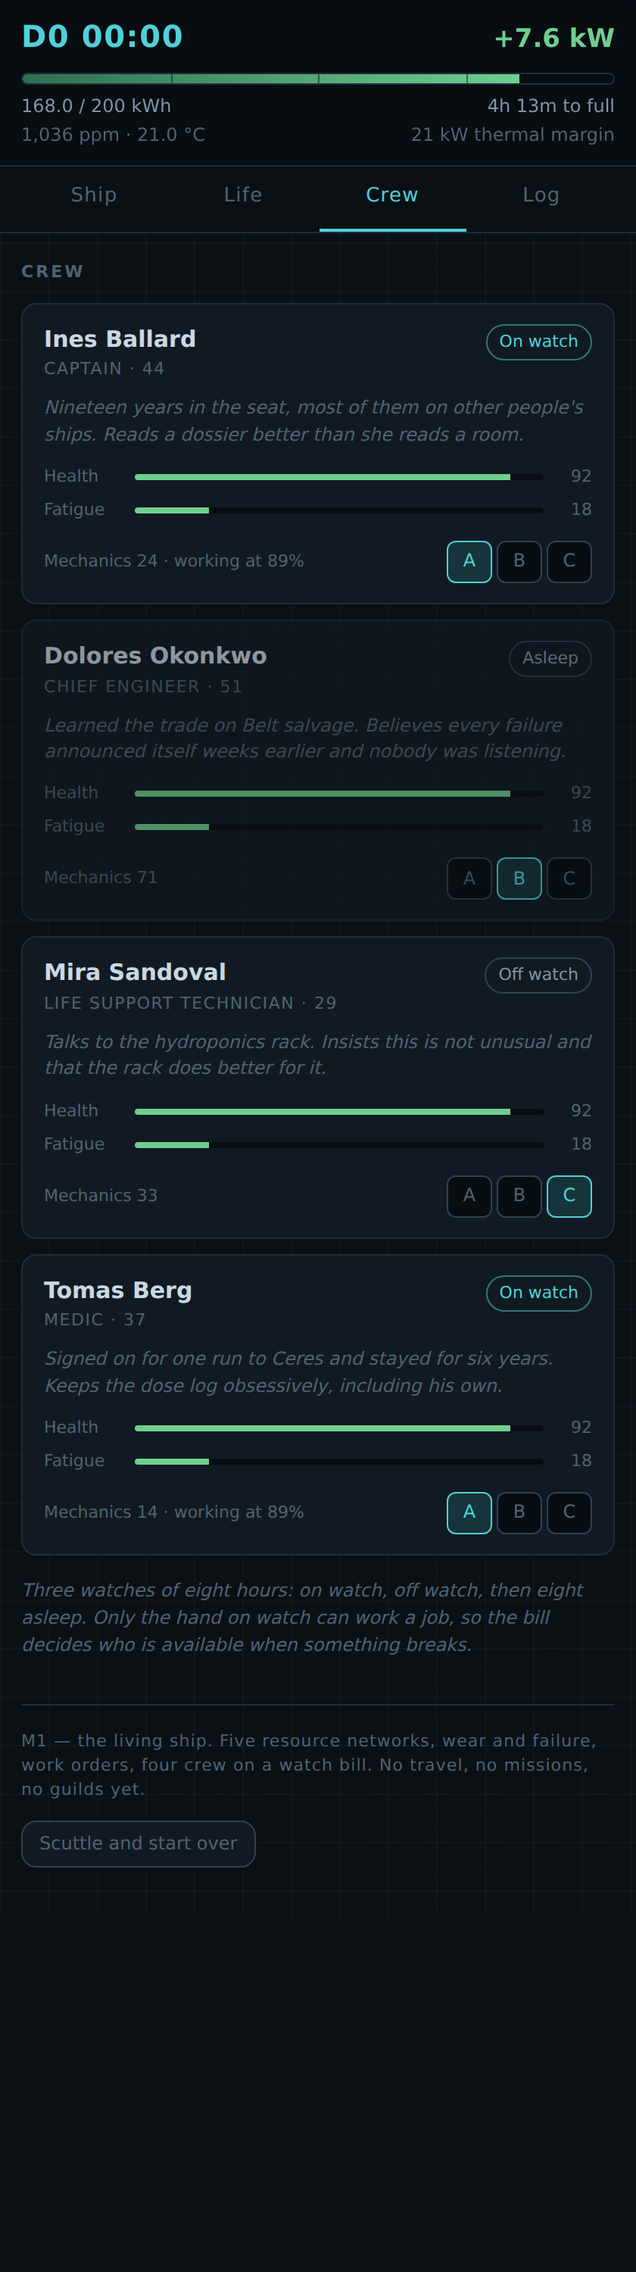
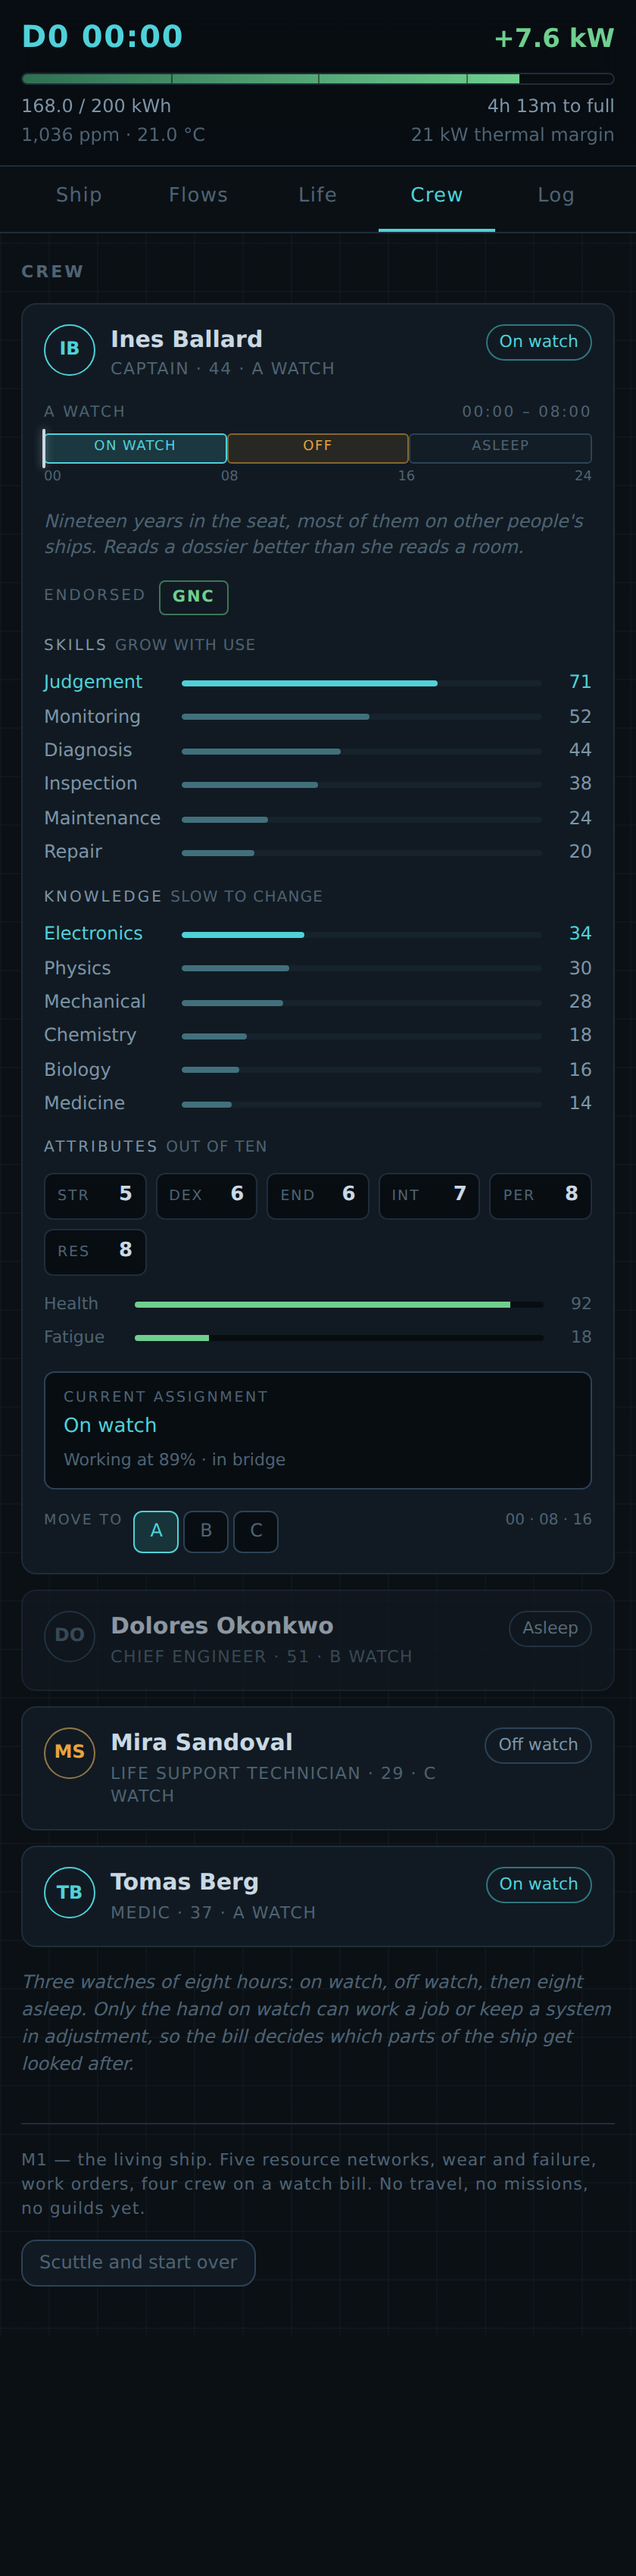
Record spec 004 in the changelog, and close it (#20)
Two entries, replacing the in-progress one: the rooms and the tune axis, and
the skill taxonomy with the flow view.

Each carries the decision that shipped alongside the alternative that lost --
elevation over dimetric, condition-and-tune over a single instantaneous
multiplier, borrowed classifications over an invented skill list -- because
the rejected half is usually the more interesting one, and it is the half a
commit log never keeps.

Two entries also record something that was not a clean win. The tune floor
cost the earlier "rated means unattended" rule its literal form, which is
written down rather than quietly amended. And the balance note records a
problem found by running the world out to 30, 120 and 365 days rather than
by a failing test: the ship's own life-support technician sat just below
break-even and was slowly losing to her own recycler.

Two new screenshots from the running build: the crew card with its 24-hour
watch strip, and the water channel with the recycler drawn as a return.

Spec 004 is marked implemented.

Claude-Session: https://claude.ai/code/session_012REkmJpGt5q1RzvGv9YHoN

diff --git a/docs/changelog.html b/docs/changelog.html
@@ -138,100 +138,124 @@
 <div class="wrap log">
 
   <!-- ============================================================ -->
-  <article class="entry entry--plan">
-    <p class="stamp"><b>Spec 004</b> <span>Rooms, flows and people</span> <span class="state state--planned">approved · building</span></p>
-    <h2>Rooms that look like rooms</h2>
+  <article class="entry entry--ship">
+    <p class="stamp"><b>Spec 004</b> <span class="pr">#19</span> <span class="state state--shipped">shipped</span></p>
+    <h2>A skill model borrowed rather than invented</h2>
     <p>
-      The schematic drew every component as an abstract mark. It generated
-      cleanly from data and it was legible — but a cylinder reads as a cylinder,
-      not as a CO₂ scrubber you could walk up to and service. Three things
-      followed from that, and one gameplay problem sat behind all of them.
+      "Life support" was never a skill. It is a <em>system</em> — and calling it
+      a skill was the symptom of a model that had collapsed three different
+      things into one number. The fix was to stop inventing and go and find
+      classifications that already exist.
     </p>
 
-    <div class="shots">
-      <figure>
-        <img src="img/mockup-004-elevation.png" alt="Mockup: Life Support, Quarters and the Reactor deck drawn as interior elevations with equipment standing on a grated floor and crew at human scale.">
-        <figcaption><b>Chosen — Elevation.</b> Back wall, ceiling conduit, grated
-        floor. The scrubber is visibly two amine beds on a plinth. A crew figure
-        is 1.7&nbsp;m, which sets the scale for everything else.</figcaption>
-      </figure>
-      <figure>
-        <img src="img/mockup-004-dimetric.png" alt="Mockup: the same room drawn in dimetric projection, with equipment showing a top face and a side face.">
-        <figcaption><b>Rejected — Dimetric.</b> More object-like, and it eats the
-        viewport: four machines no longer fit across a phone, and every part
-        becomes three faces with overlap ordering to resolve.</figcaption>
-      </figure>
+    <div class="tblwrap">
+      <table>
+        <thead><tr><th>Layer</th><th>What it is</th><th>Taken from</th></tr></thead>
+        <tbody>
+          <tr>
+            <td>Knowledge</td>
+            <td>Mechanical, Electronics, Physics, Chemistry, Biology, Medicine</td>
+            <td><a href="https://www.onetcenter.org/content.html">O*NET Content Model</a> domains</td>
+          </tr>
+          <tr>
+            <td>Skills</td>
+            <td>Operation Monitoring, Equipment Maintenance, Troubleshooting, Repairing, Quality Control, Judgment</td>
+            <td>O*NET Cross-Functional <strong>Technical</strong> cluster, verbatim</td>
+          </tr>
+          <tr>
+            <td>Qualifications</td>
+            <td>ECLSS, EPS, TCS, PROP, GNC, EVA, CMO</td>
+            <td>STCW-style endorsements over real ISS system names</td>
+          </tr>
+        </tbody>
+      </table>
     </div>
 
     <div class="decision">
-      <h3>Decision · elevation over dimetric</h3>
+      <h3>Decision · borrow the taxonomy, do not invent one</h3>
       <p>
-        Projection looks more like a game and costs horizontal space. On a
-        portrait mobile game that is the wrong trade — the same four machines
-        stop fitting, and the per-part drawing cost roughly triples.
+        These were not chosen to fit the game and justified afterwards. O*NET
+        defines <strong>Operation Monitoring</strong> as <em>"watching gauges,
+        dials, or other indicators to make sure a machine is working
+        properly"</em> — which describes the tune mechanic almost word for word,
+        in a US Department of Labor taxonomy that predates this project by
+        decades.
       </p>
-      <p class="against">Rejected: dimetric projection, and a full-perspective interior.</p>
+      <p>
+        The split is the point. Keeping a system sweet, spotting that something
+        is wrong, and putting it right are three different competences. You can
+        watch it work: the ship's medic gets the scrubber <em>service</em> over
+        the captain, because his Equipment Maintenance is higher — and would
+        lose a <em>repair</em> to the chief engineer badly.
+      </p>
+      <p class="against">
+        Rejected: one flat "mechanics" number; and a longer skill list with
+        "botany" and "nuclear" as separate skills, which proliferates without
+        adding meaning.
+      </p>
+    </div>
+
+    <div class="decision">
+      <h3>Decision · rooms ask for knowledge, not for a skill</h3>
+      <p>
+        A room declares a <strong>weighted knowledge requirement</strong> plus
+        the endorsement that certifies you for it. The engine room is part
+        physics and part mechanical; saying so in data beats inventing a
+        "nuclear engineering" skill that nothing else uses. An uncertificated
+        hand is discounted rather than refused — a short-handed ship has to stay
+        playable.
+      </p>
     </div>
 
     <div class="shots">
       <figure>
-        <img src="img/mockup-004-station-card.png" alt="Mockup: tapping the failed scrubber opens a detail card beneath the room showing condition, draw, blurb and a repair action.">
-        <figcaption>Tapping a machine opens <em>that machine</em>, held highlighted
-        above its card — instead of expanding a list of four and making you find
-        the one you were already looking at.</figcaption>
+        <img src="img/crew.png" alt="A crew card: a 24-hour watch strip, six skills, six knowledge domains, six attributes, endorsements and the current assignment.">
+        <figcaption>The 24-hour strip is the answer to "what is B watch": eight
+        asleep, eight on, eight off, with a marker at the current hour. The
+        letter stops mattering.</figcaption>
       </figure>
       <figure>
-        <img src="img/mockup-004-flows-water.png" alt="Mockup: the water flow channel, showing the tank feeding crew, electrolysis and hydroponics, with a dashed return edge from the recycler.">
-        <figcaption>Water is a <em>loop</em>. The Life tab says "86.1% loop
-        closure" and gives no cause; here the 2&nbsp;kg/day the hydroponics locks
-        into plants visibly leaves the circuit.</figcaption>
+        <img src="img/flows-water.png" alt="The water flow channel: the recycler drawn as a return of 18.3 of 21.5 kg per day, with the hydroponics draw annotated as food rather than loss.">
+        <figcaption>Water, as connections rather than as a level. The recycler
+        returns 18.3 of 21.5&nbsp;kg/day; the 2&nbsp;kg the rack locks into
+        plants is food, not loss.</figcaption>
       </figure>
     </div>
 
     <div class="decision">
       <h3>Decision · the flow overlay is deleted, not fixed</h3>
       <p>
-        Three parallel lines in a 12-unit margin can encode how much passes each
-        deck and nothing else, because there is nowhere to route an edge
-        sideways. Flow views exist to show what connects to what. It becomes its
-        own view with <strong>one channel per Life gauge, plus power</strong> —
-        eight in total — with named nodes, ranked consumers, buffers off to one
-        side, and returns drawn as returns.
+        Three lines in a twelve-unit margin can encode how much passes each deck
+        and nothing else, because there is nowhere to route an edge sideways.
+        Flow views exist to show what connects to what. It became its own view
+        with <strong>eight channels — one per Life gauge, plus power</strong>,
+        each using the same grammar: sources in, returns back, consumers ranked
+        by magnitude, a buffer absorbing the difference.
       </p>
-      <p class="against">
-        Nothing is lost: per-deck magnitude was already printed in every deck
-        header, which was the only thing the overlay communicated successfully.
+      <p>
+        Water is why it was worth building. The Life tab reports "86.1% loop
+        closure" and gives no cause; the diagram shows the missing eleven points
+        leaving the loop as plant matter. The footer states the counterfactual
+        outright: <strong>recycler offline is −21.5&nbsp;kg/day and 37 days of
+        tank.</strong>
       </p>
+      <p class="against">Nothing was lost: per-deck magnitude was already printed in every deck header.</p>
     </div>
 
-    <figure class="narrow">
-      <img src="img/mockup-004-crew.png" alt="Mockup: a crew card showing a 24-hour watch strip, five skill bars, six attributes, and the current assignment with its labour arithmetic.">
-      <figcaption>A 24-hour strip per person — eight asleep, eight on, eight off,
-      with a marker at the current time. "B watch" stops being a letter and
-      becomes the block that is lit.</figcaption>
-    </figure>
-
-    <div class="decision">
-      <h3>Decision · crew must be present to matter</h3>
+    <div class="decision bug">
+      <h3>Balance · the specialist was losing ground on her own loop</h3>
       <p>
-        The design says equipment <em>and crew</em> determine how well the
-        networks run. Equipment already did — condition derates output on a
-        0.62–1.0 curve. Crew did not: the life-support bonus capped at
-        <strong>+1.5 percentage points</strong> of closure and read the best
-        skill <em>aboard</em>, so a technician asleep in her bunk improved the
-        water loop exactly as much as one standing at the recycler.
+        Found by running the world out to 30, 120 and 365 days rather than by a
+        failing test. Under the new model the ship's life-support technician sat
+        <em>just below</em> break-even — eight hours of tending at quality 0.44
+        against sixteen hours of decay — so the one person qualified to keep the
+        recycler sweet was slowly losing to it.
       </p>
       <p>
-        Now a crew member contributes only while <strong>on watch and stationed
-        in that system's room</strong>, scaled by their current effectiveness so
-        fatigue and bad air feed back into it. Upgrade tiers raise the
-        <em>base</em>; crew raise the <em>multiplier</em> — so a superb
-        technician cannot substitute for a worn-out recycler, and a new recycler
-        still runs better tended.
-      </p>
-      <p class="against">
-        Constraint kept: efficiency changes only at moments the simulation
-        already re-resolves, so offline catch-up stays bit-identical.
+        Tune gain went from 6 to 10 per day per unit of quality, putting
+        break-even at 0.30. A qualified specialist now holds their system at
+        about spec, a better one takes it past, and an unqualified stand-in
+        still beats nobody.
       </p>
     </div>
 
@@ -239,6 +263,83 @@
       <a href="mockups/004-rooms-flows-crew.html">Full mockup</a> ·
       <a href="https://github.com/CoderCoop/SolarSyndicate/blob/main/specs/004-rooms-flows-crew/spec.md">Spec 004</a>
     </p>
+  </article>
+
+  <!-- ============================================================ -->
+  <article class="entry entry--ship">
+    <p class="stamp"><b>Spec 004</b> <span class="pr">#18</span> <span class="state state--shipped">shipped</span></p>
+    <h2>Rooms that look like rooms, and a second axis for wear</h2>
+    <p>
+      The schematic drew every component as an abstract mark. It generated
+      cleanly from data and it was legible — but a cylinder reads as a cylinder,
+      not as a CO₂ scrubber you could walk up to and service.
+    </p>
+
+    <div class="shots">
+      <figure>
+        <img src="img/ship-rooms.png" alt="The ship as rooms: interiors with grated decks, conduit trays, equipment at real size and crew drawn as figures at human scale.">
+        <figcaption>Interior elevations. Parts declare a fitting and their real
+        size in metres; a crew figure is drawn against the same grid, so a
+        scrubber is the size a scrubber is next to a 1.7&nbsp;m person.</figcaption>
+      </figure>
+      <figure>
+        <img src="img/station-card.png" alt="A machine opened in place: the reactor held highlighted above its card, showing condition and tune as separate bars with separate explanations.">
+        <figcaption>Tapping a machine opens that machine, held highlighted above
+        its card — instead of expanding a list of four and making you find the
+        one you were looking at.</figcaption>
+      </figure>
+    </div>
+
+    <div class="decision">
+      <h3>Decision · elevation over dimetric</h3>
+      <p>
+        Projection looks more like a game and costs horizontal space: the same
+        four machines stop fitting across a phone, and every part becomes three
+        faces with overlap ordering to resolve. On a portrait mobile game that is
+        the wrong trade.
+      </p>
+      <p class="against">Rejected: dimetric projection, and a full-perspective interior.</p>
+    </div>
+
+    <div class="decision">
+      <h3>Decision · condition and tune are different problems</h3>
+      <p>
+        A water recycler does not simply wear out. Gunk builds up in a line. A
+        hose sits slightly outside its specified diameter and nobody measures it.
+        A fungus takes hold in the root system, or a batch of seed needs lower
+        light for a few days after germination or half the seedlings die.
+        <strong>Anyone can run the plant; a skilled operator notices</strong> —
+        and a very good one runs it better than the manufacturer intended.
+      </p>
+      <p>
+        So efficiency became a second state variable. <strong>Condition</strong>
+        falls through use and is restored by a work order costing hours and
+        spares. <strong>Tune</strong> falls through inattention and is restored
+        only by assignment. A part can be mechanically sound and badly out of
+        adjustment, or freshly trimmed and about to break.
+      </p>
+      <p class="against">
+        Rejected: an instantaneous "someone is present, therefore better right
+        now" multiplier, which is the wrong physics for a machine nobody is
+        watching.
+      </p>
+    </div>
+
+    <div class="decision">
+      <h3>Decision · a floor, so absence is never punished</h3>
+      <p>
+        Tune decay is bounded: a wholly neglected system bottoms out at 0.86 of
+        rated rather than falling to nothing. Inefficient, never non-viable,
+        never spiralling, and recovered by putting someone back on it. Ships are
+        delivered exactly at spec, so the nameplate is what you get on day one
+        and every change from there is something you did or failed to do.
+      </p>
+      <p class="against">
+        This cost the earlier rule its literal form — "rated means unattended"
+        became a floor rather than a fixed point — which is recorded here rather
+        than quietly rewritten.
+      </p>
+    </div>
   </article>
 
   <!-- ============================================================ -->

diff --git a/specs/README.md b/specs/README.md
@@ -12,7 +12,7 @@ are binding: a spec that violates one is wrong even if it is otherwise good.
 | --- | --- | --- |
 | [`002-travel-and-contracts`](002-travel-and-contracts/spec.md) | M2 | Draft, awaiting approval |
 | [`003-ship-view`](003-ship-view/spec.md) | — (presentation) | Implemented; superseded in part by 004 |
-| [`004-rooms-flows-crew`](004-rooms-flows-crew/spec.md) | — (presentation + §4.2) | Approved, in progress |
+| [`004-rooms-flows-crew`](004-rooms-flows-crew/spec.md) | — (presentation + §4.2) | Implemented |
 
 ## M0 and M1 have no spec
 
